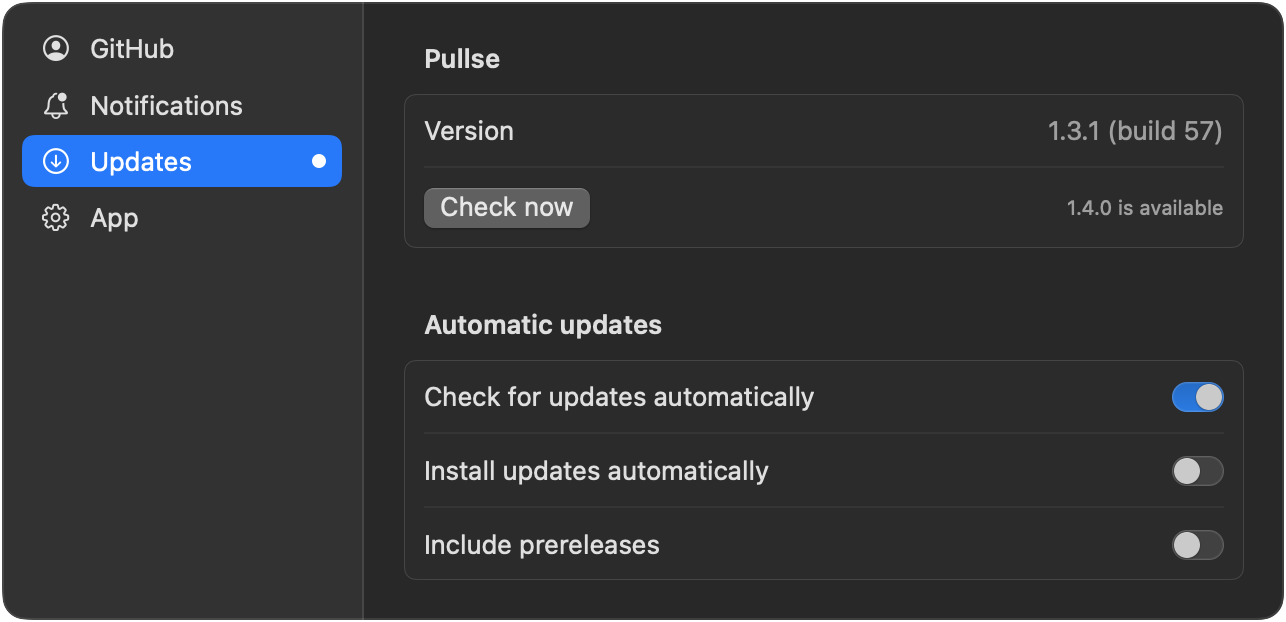
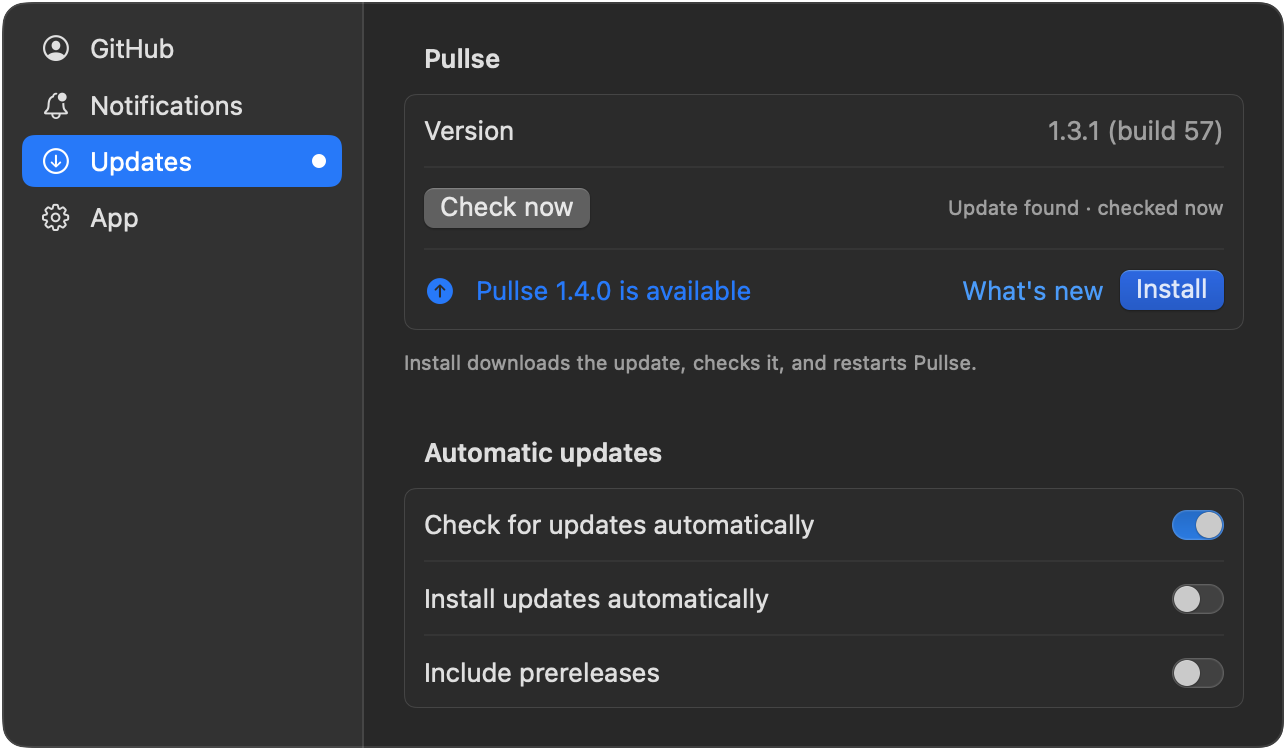
Offer Install on the Updates tab when a check finds a new version
After Check now, the update used to be installable only from the menu's
banner. The Updates tab now shows the available version with What's new and
Install (Download when Pullse isn't in Applications), with progress while it
installs, and the status line no longer repeats the version.

diff --git a/Sources/Pullse/Views/SettingsView.swift b/Sources/Pullse/Views/SettingsView.swift
@@ -186,10 +186,16 @@ struct SettingsView: View {
     // MARK: - Updates
 
     private var updateStatus: String {
+        switch updater.phase {
+        case .downloading: return "Downloading…"
+        case .installing: return "Verifying and installing…"
+        case .idle, .checking: break
+        }
         if let error = updater.error { return error }
-        if let update = updater.available { return "\(update.version.description) is available" }
         if let checked = updater.lastChecked {
-            return "Up to date · checked \(checked.formatted(.relative(presentation: .named)))"
+            // An update found gets its own row below, with the Install button.
+            let when = "checked \(checked.formatted(.relative(presentation: .named)))"
+            return updater.available != nil ? "Update found · \(when)" : "Up to date · \(when)"
         }
         return updater.repository == nil ? "This build has no update source" : ""
     }
@@ -211,8 +217,31 @@ struct SettingsView: View {
                         .multilineTextAlignment(.trailing)
                 }
             }
+            // Install right here, without going back to the menu's banner.
+            if let update = updater.available {
+                HStack {
+                    Label("Pullse \(update.version.description) is available", systemImage: "arrow.up.circle.fill")
+                        .foregroundStyle(Color.accentColor)
+                    Spacer()
+                    if updater.phase == .downloading || updater.phase == .installing {
+                        ProgressView().controlSize(.small)
+                    } else {
+                        Button("What's new") { updater.openReleasePage() }
+                            .buttonStyle(.link)
+                        Button(updater.canInstallInPlace ? "Install" : "Download") {
+                            Task { await updater.install() }
+                        }
+                        .buttonStyle(.borderedProminent)
+                        .disabled(updater.isBusy)
+                    }
+                }
+            }
         } header: {
             Text("Pullse")
+        } footer: {
+            if updater.available != nil, updater.canInstallInPlace {
+                Footnote("Install downloads the update, checks it, and restarts Pullse.")
+            }
         }
 
         Section {

diff --git a/README.md b/README.md
@@ -63,7 +63,8 @@ Every CI run also keeps a build of that commit as a downloadable artifact for 14
 
 Pullse checks the repository's releases on launch and every hour. When a newer one
 exists, the menu bar icon gets an arrow and the menu shows **Pullse x.y.z is available**,
-with *What's new* and *Install*. Install downloads the release, checks it against its
+with *What's new* and *Install*. The same buttons appear on the Updates tab in Settings, so
+after *Check now* you can install from there. Install downloads the release, checks it against its
 published SHA-256, checks that it is Pullse at the expected version with an intact
 signature, swaps it in and relaunches. After the relaunch a notification confirms the
 new version.

diff --git a/CHANGELOG.md b/CHANGELOG.md
@@ -8,6 +8,10 @@ Added, Changed, Deprecated or Removed is a minor, and Breaking is a major.
 
 ## [Unreleased]
 
+### Added
+- When "Check now" (or any check) finds a new version, the Updates tab shows it with
+  What's new and Install buttons, so there's no need to go back to the menu.
+
 ## [0.5.0] - 2026-09-24
 
 ### Changed
